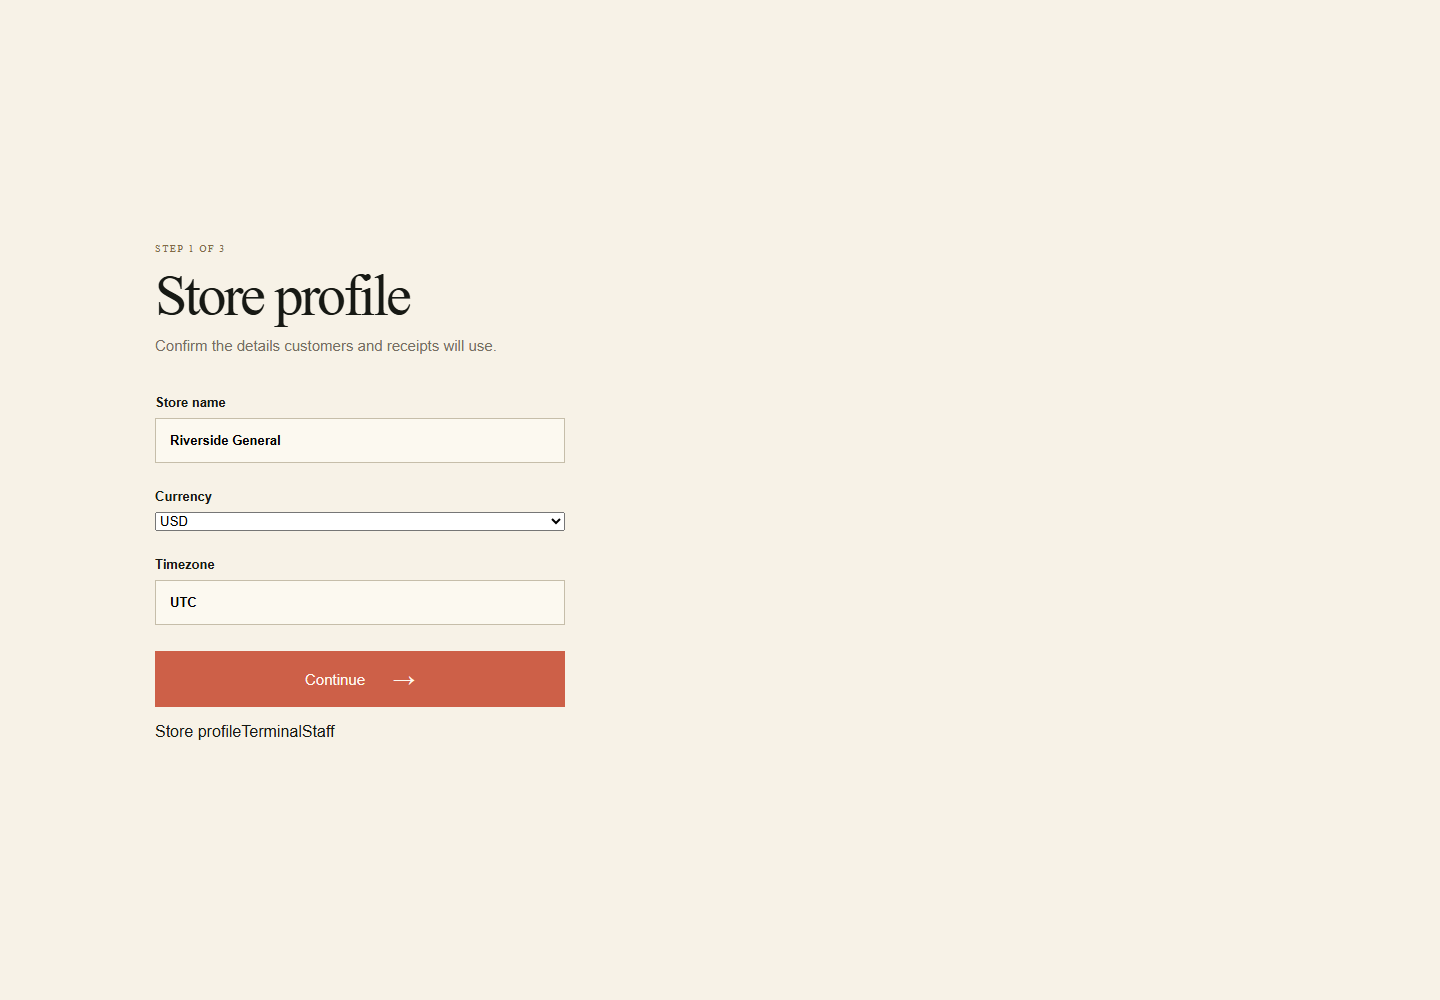
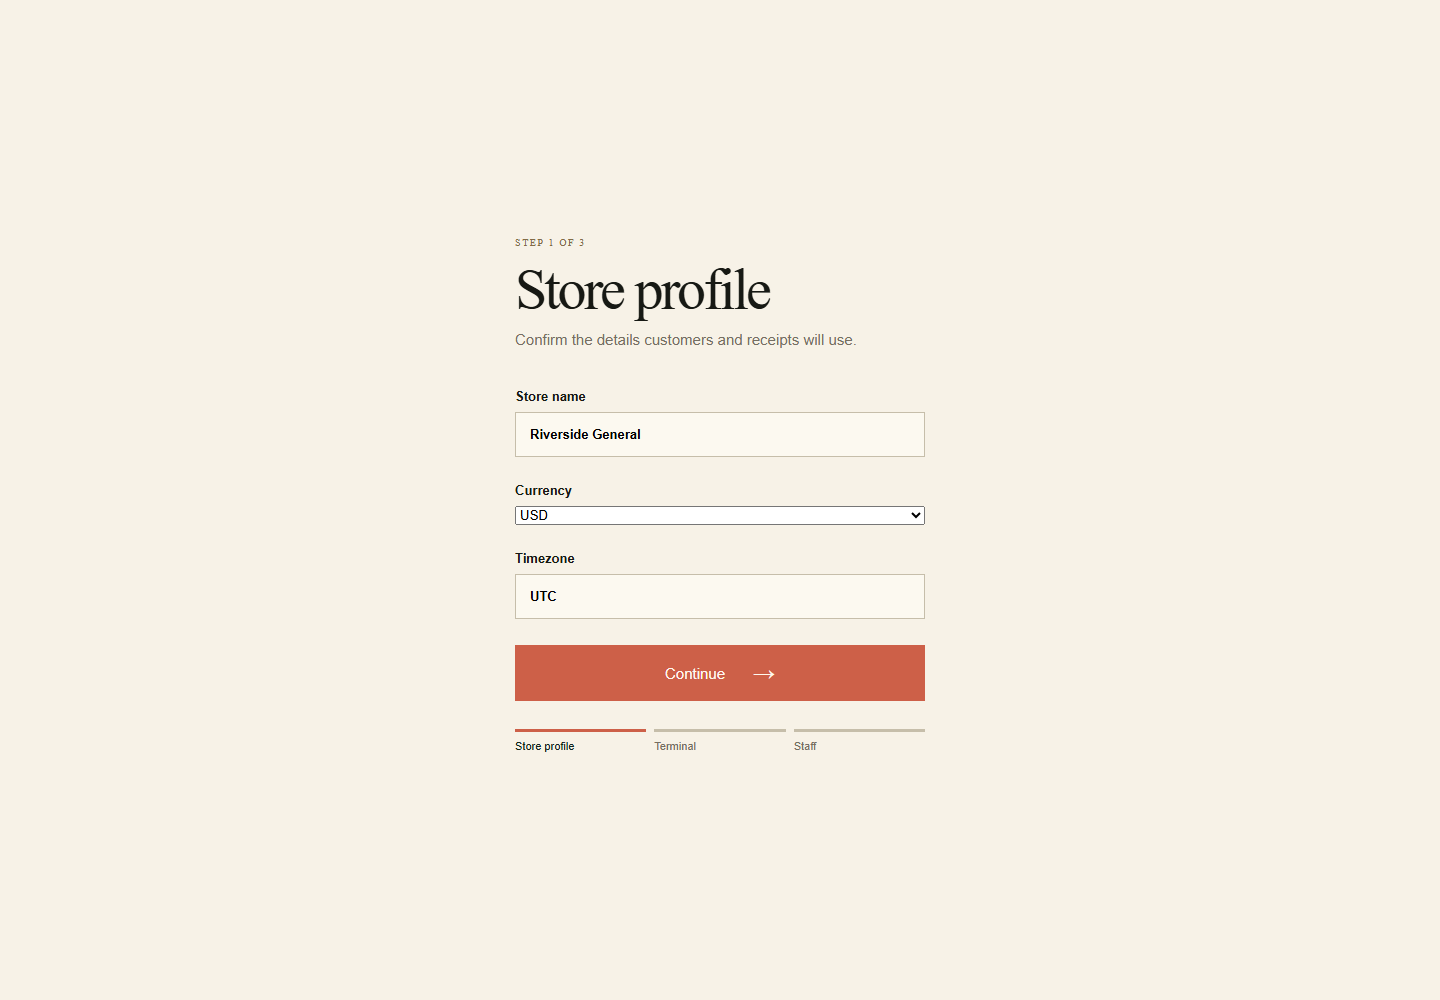
fix(onboarding): center the wizard card on the page
The wizard reused .auth-page, a two-column grid built for AuthShell's
marketing panel + form panel. With only one panel rendered, the card
sat in the left half of the viewport instead of centered. Give the
wizard its own single-column, centered layout and fix the step
progress indicator so labels don't overlap the bar.

diff --git a/apps/web/src/onboarding/OnboardingWizard.tsx b/apps/web/src/onboarding/OnboardingWizard.tsx
@@ -101,13 +101,12 @@ export function OnboardingWizard() {
   }
 
   if (loading) return <main className="route-pending" role="status">Loading…</main>
-  if (error && !store) return <main className="auth-page"><section className="auth-form"><div className="form-card"><p role="alert" className="form-notice error">{error}</p></div></section></main>
+  if (error && !store) return <main className="onboarding-page"><div className="form-card"><p role="alert" className="form-notice error">{error}</p></div></main>
 
-  return <main className="auth-page">
-    <section className="auth-form">
-      <div className="form-card onboarding-wizard">
-        <p className="kicker">STEP {step + 1} OF {STEPS.length}</p>
-        <h2>{STEPS[step]}</h2>
+  return <main className="onboarding-page">
+    <div className="form-card onboarding-wizard">
+      <p className="kicker">STEP {step + 1} OF {STEPS.length}</p>
+      <h2>{STEPS[step]}</h2>
         {error && <p role="alert" className="form-notice error">{error}</p>}
         {step === 0 && store && <form onSubmit={event => void submitProfile(event)} noValidate>
           <p className="form-copy">Confirm the details customers and receipts will use.</p>
@@ -128,7 +127,6 @@ export function OnboardingWizard() {
           <button className="cta" type="submit" disabled={busy}>{busy ? 'Saving…' : 'Finish setup'}<b aria-hidden="true">→</b></button>
         </form>}
         <p className="onboarding-progress" aria-hidden="true">{STEPS.map((label, index) => <span key={label} className={index === step ? 'active' : index < step || (index === 1 && terminalDone) || (index === 2 && staffDone) ? 'done' : ''}>{label}</span>)}</p>
-      </div>
-    </section>
+    </div>
   </main>
 }

diff --git a/apps/web/src/terminal-auth/terminal-auth.css b/apps/web/src/terminal-auth/terminal-auth.css
@@ -53,3 +53,9 @@
 .manager-approval-head h1 { margin: 2px 0 0; font-size: 26px; letter-spacing: -.03em; }
 .manager-approval-reason { color: #667085; font-size: 13px; line-height: 1.5; margin: 6px 0 18px; }
 @media (max-width: 480px) { .manager-approval-dialog { padding: 22px 18px; } .manager-approval-head h1 { font-size: 23px; } }
+
+.onboarding-page { min-height: 100vh; display: grid; place-items: center; background: var(--paper); padding: 40px; }
+.onboarding-wizard { width: min(100%, 410px); }
+.onboarding-progress { display: flex; gap: 8px; margin-top: 28px; font-size: 11px; }
+.onboarding-progress span { flex: 1; padding-top: 8px; border-top: 3px solid var(--line); color: var(--muted); }
+.onboarding-progress span.active, .onboarding-progress span.done { border-top-color: var(--coral); color: var(--ink); }
